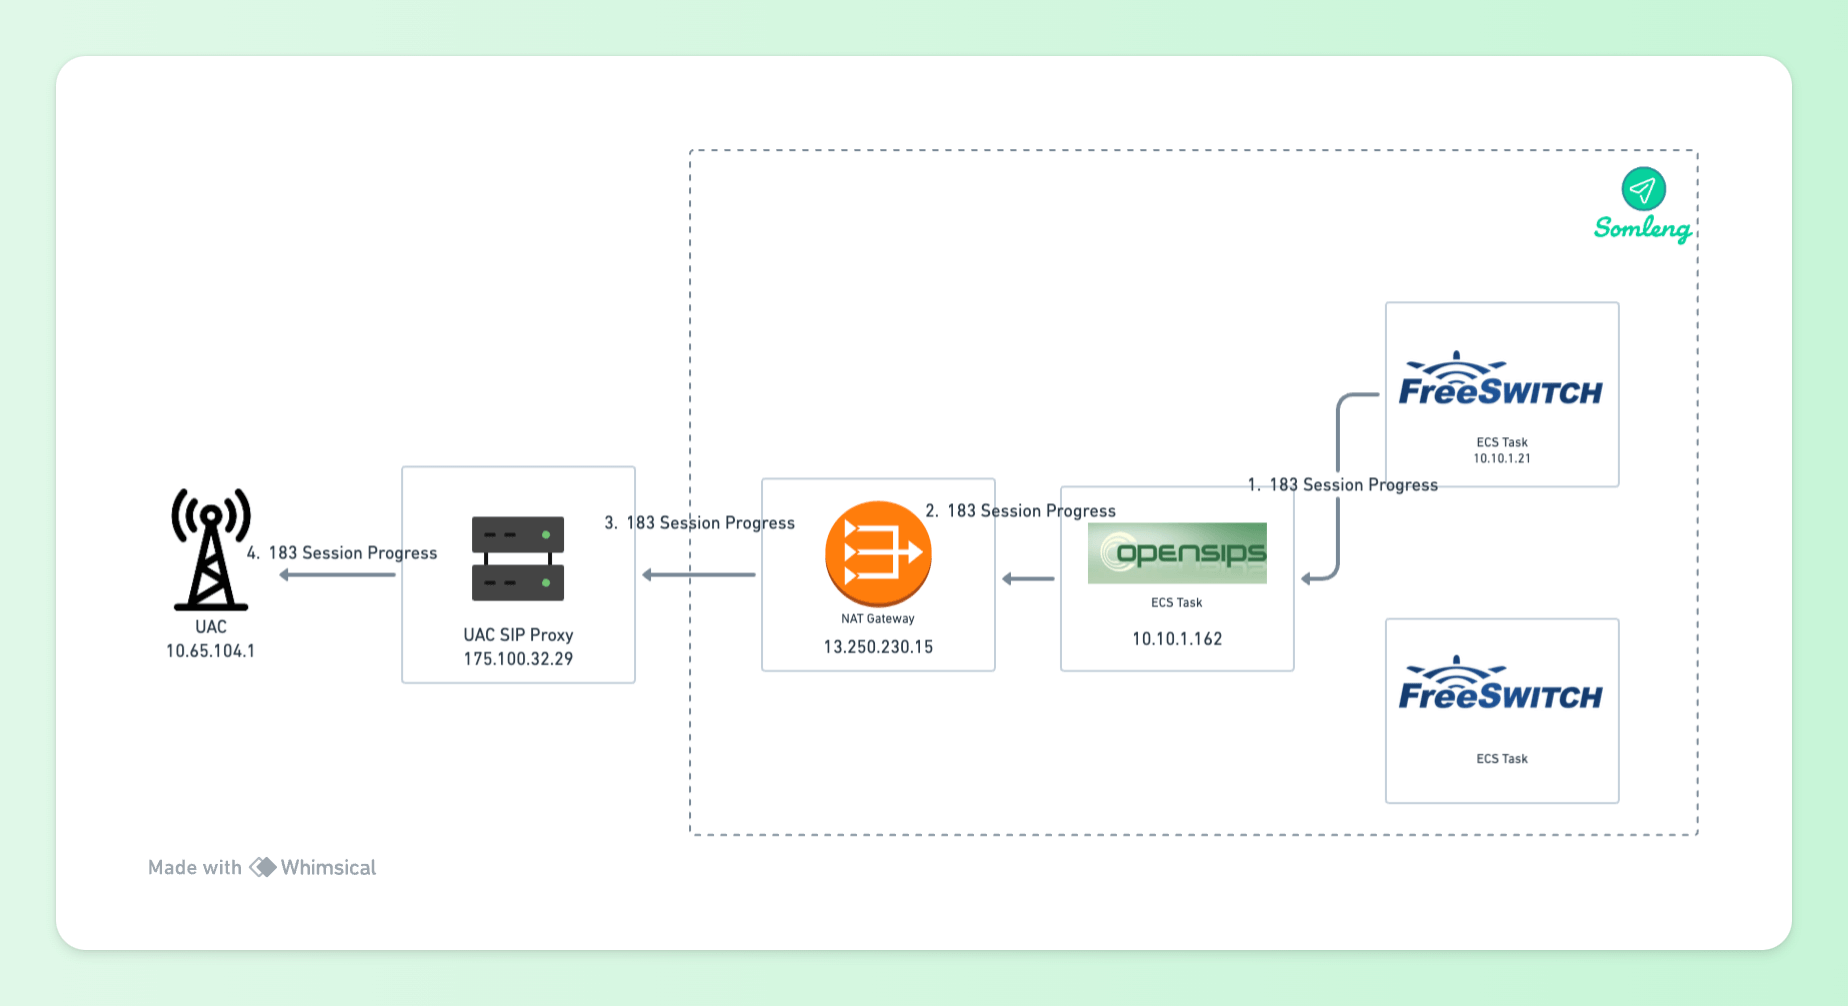
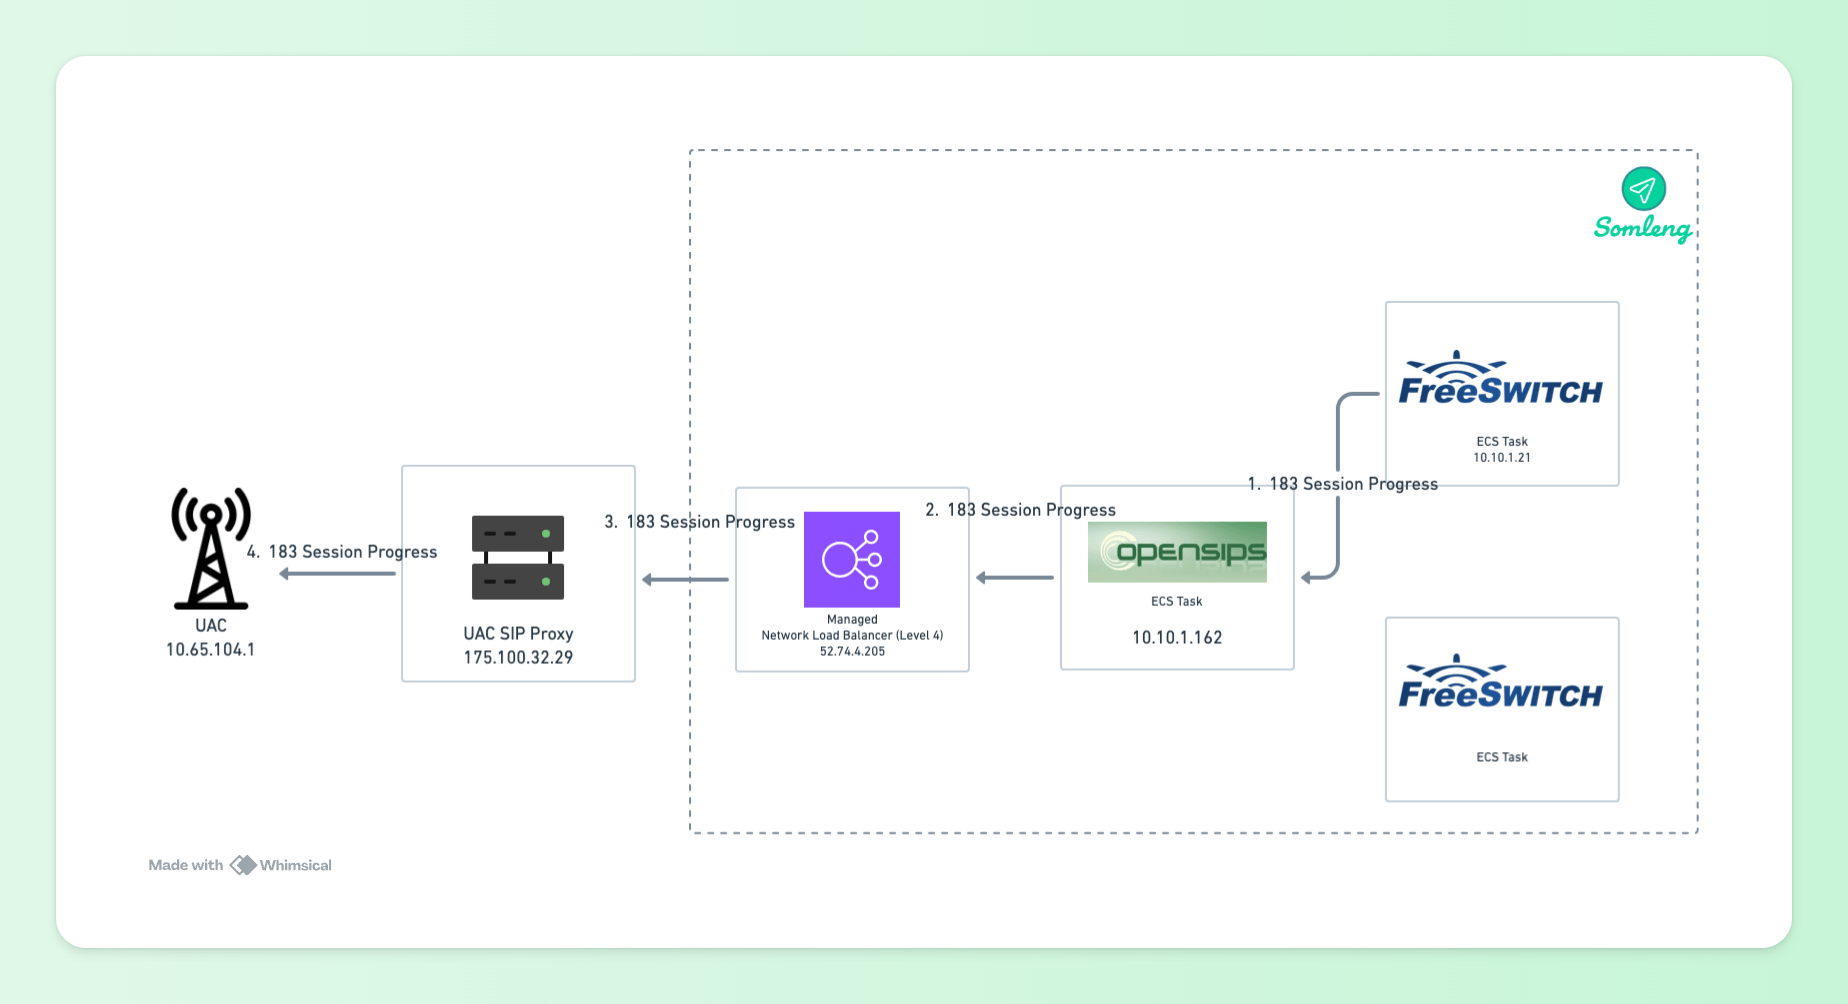
Make corrections to infrastructure blog post

diff --git a/public/website/blog.html b/public/website/blog.html
@@ -8,6 +8,11 @@
   <link rel='stylesheet' href='css/style.min.css' />
   <link rel='stylesheet' href='css/custom.css' />
   <link rel="stylesheet" href="https://cdnjs.cloudflare.com/ajax/libs/font-awesome/6.1.1/css/all.min.css">
+  <link rel="stylesheet" href="https://cdnjs.cloudflare.com/ajax/libs/prism/1.29.0/themes/prism-dark.min.css">
+  <link rel="stylesheet"
+    href="https://cdnjs.cloudflare.com/ajax/libs/prism/1.29.0/plugins/line-numbers/prism-line-numbers.min.css" />
+  <link rel="stylesheet"
+    href="https://cdnjs.cloudflare.com/ajax/libs/prism/1.29.0/plugins/toolbar/prism-toolbar.min.css" />
 
   <!-- favicon -->
   <link rel="apple-touch-icon" sizes="180x180" href="apple-touch-icon.png">
@@ -217,7 +222,7 @@
               </p>
 
               <p>
-                <code>Via: SIP/2.0/UDP 10.10.1.21;branch=z9hG4bKv5jFZ8am7aZQc</code>
+              <pre><code class="language-plain">Via: SIP/2.0/UDP 10.10.1.21;branch=z9hG4bKv5jFZ8am7aZQc</code></pre>
               </p>
 
               <p>
@@ -267,7 +272,7 @@
               </p>
 
               <p>
-                <code>Via: SIP/2.0/UDP 10.10.1.21;received=13.250.230.15;branch=z9hG4bKv5jFZ8am7aZQc</code>
+              <pre><code class="language-plain">Via: SIP/2.0/UDP 10.10.1.21;received=13.250.230.15;branch=z9hG4bKv5jFZ8am7aZQc</code></pre>
               </p>
 
               <p>
@@ -303,7 +308,7 @@
               </p>
 
               <p>
-                <code>Via: SIP/2.0/UDP 10.10.1.21;rport;branch=z9hG4bKv5jFZ8am7aZQc</code>
+              <pre><code class="language-plain">Via: SIP/2.0/UDP 10.10.1.21;rport;branch=z9hG4bKv5jFZ8am7aZQc</code></pre>
               </p>
 
               <p>
@@ -311,7 +316,7 @@
               </p>
 
               <p>
-                <code>Via: SIP/2.0/UDP 10.10.1.21;received=13.250.230.15;rport=37058;branch=z9hG4bKv5jFZ8am7aZQc</code>
+              <pre><code class="language-plain">Via: SIP/2.0/UDP 10.10.1.21;received=13.250.230.15;rport=37058;branch=z9hG4bKv5jFZ8am7aZQc</code></pre>
               </p>
 
               <p>
@@ -335,20 +340,17 @@
                 which describes multimedia communication information. Here's an truncated example from Somleng:
               </p>
 
-              <pre>
-                <code>
-                  Session Description Protocol Version (v): 0
-                  Connection Information (c): IN IP4 13.250.230.15
-                  Media Description, name and address (m): audio 25984 RTP/AVP 0 8 101 13
-                </code>
-              </pre>
+              <pre><code class="language-plain line-numbers">Session Description Protocol Version (v): 0
+Connection Information (c): IN IP4 13.250.230.15
+Media Description, name and address (m): audio 25984 RTP/AVP 0 8 101 13
+</code></pre>
 
               <p>
                 The following line shows the media connection information:
               </p>
 
               <p>
-                <code>Connection Information (c): IN IP4 13.250.230.15</code>
+              <pre><code class="language-plain">Connection Information (c): IN IP4 13.250.230.15</code></pre>
               </p>
 
               <p>
@@ -364,9 +366,8 @@
               </p>
 
               <p>
-                <code>
-                  Media Description, name and address (m): audio 25984 RTP/AVP 0 8 101 13
-                </code>
+              <pre
+                class="language-plain"><code>Media Description, name and address (m): audio 25984 RTP/AVP 0 8 101 13</code></pre>
               </p>
 
               <p>
@@ -508,17 +509,12 @@
                 proxied to the UAS (FreeSWITCH ECS Task):
               </p>
 
-              <pre>
-                <code>
-                  Request-Line: INVITE sip:1294@52.74.4.205:5060;user=phone SIP/2.0
-
-                  Message Header:
-                  Record-Route: &lt;sip:10.10.1.162:5060;lr;did=05d.f7db99b7;r2=on&gt;
-                  Record-Route: &lt;sip:52.74.4.205:5060;lr;did=05d.f7db99b7;r2=on&gt;
-                  Record-Route: &lt;sip:175.100.32.29:5060;lr;transport=udp&gt;
-                  Contact: &lt;sip:0715100860@10.65.104.1:5060;user=phone&gt;
-                </code>
-              </pre>
+              <pre><code class="language-plain line-numbers">Request-Line: INVITE sip:1294@52.74.4.205:5060;user=phone SIP/2.0
+Message Header:
+Record-Route: &lt;sip:10.10.1.162:5060;lr;did=05d.f7db99b7;r2=on&gt;
+Record-Route: &lt;sip:52.74.4.205:5060;lr;did=05d.f7db99b7;r2=on&gt;
+Record-Route: &lt;sip:175.100.32.29:5060;lr;transport=udp&gt;
+Contact: &lt;sip:0715100860@10.65.104.1:5060;user=phone&gt;</code></pre>
 
               <p>
                 Note the following:
@@ -566,14 +562,15 @@
               <ol>
                 <li>
                   The UAS FreeSWITCH ECS Task (<code>10.10.1.21</code>) sends the response to the OpenSIPS proxy's
-                  internal IP address (<code>10.10.1.162</code>) obtained from the Via Header.
+                  internal IP address (<code>10.10.1.162</code>) obtained from the received parameter in the Via Header.
                 </li>
                 <li>
-                  The OpenSIPS proxy ECS task forwards the response to the UAC's proxy via the NAT Gateway.
+                  The OpenSIPS proxy ECS task forwards the response to the UAC's proxy via the Network Load Balancer.
+                  Note: Subsequent requests (e.g. upstream BYEs) are also forwarded via the Network Load Balancer.
                 </li>
                 <li>
-                  The NAT Gateway forwards the response to the UAC's SIP Proxy (<code>175.100.32.29</code>) obtained
-                  from the Via Header.
+                  The Network Load Balancer forwards the response to the UAC's SIP Proxy (<code>175.100.32.29</code>)
+                  obtained from the Via Header.
                 </li>
                 <li>
                   The UAC's SIP proxy forwards the response to the UAC (<code>10.65.104.1</code>) obtained from the Via
@@ -585,20 +582,15 @@
                 Here's the SIP response from the UAS:
               </p>
 
-              <pre>
-                <code>
-                  Status-Line: SIP/2.0 183 Session Progress
-
-                  Message Header:
-                  Via: SIP/2.0/UDP 52.74.4.205:5060;branch=z9hG4bK918f.3a1eef55.0;received=10.10.1.162
-                  Via: SIP/2.0/UDP 175.100.32.29:5060;branch=z9hG4bK08B4d2dd80314813a74
-                  Via: SIP/2.0/UDP 10.65.104.1:5065;branch=z9hG4bKqgyjqqdfz0g5zqhhysze7m0de;X-DptMsg=139
-                  Record-Route: &lt;sip:10.10.1.162:5060;lr;did=05d.f7db99b7;r2=on&gt;
-                  Record-Route: &lt;sip:52.74.4.205:5060;lr;did=05d.f7db99b7;r2=on&gt;
-                  Record-Route: &lt;sip:175.100.32.29:5060;lr;transport=udp&gt;
-                  Contact: &lt;sip:1294@10.10.1.21:5060;transport=udp&gt;
-                </code>
-              </pre>
+              <pre><code class="language-plain line-numbers">Status-Line: SIP/2.0 183 Session Progress
+Message Header:
+Via: SIP/2.0/UDP 52.74.4.205:5060;branch=z9hG4bK918f.3a1eef55.0;received=10.10.1.162
+Via: SIP/2.0/UDP 175.100.32.29:5060;branch=z9hG4bK08B4d2dd80314813a74
+Via: SIP/2.0/UDP 10.65.104.1:5065;branch=z9hG4bKqgyjqqdfz0g5zqhhysze7m0de;X-DptMsg=139
+Record-Route: &lt;sip:10.10.1.162:5060;lr;did=05d.f7db99b7;r2=on&gt;
+Record-Route: &lt;sip:52.74.4.205:5060;lr;did=05d.f7db99b7;r2=on&gt;
+Record-Route: &lt;sip:175.100.32.29:5060;lr;transport=udp&gt;
+Contact: &lt;sip:1294@10.10.1.21:5060;transport=udp&gt;</code></pre>
 
               <p>
                 Note the following:
@@ -667,16 +659,11 @@
                 Here's the downstream BYE request from the UAC.
               </p>
 
-              <pre>
-                <code>
-                  Request-Line: BYE sip:1294@10.10.1.21:5060;transport=udp SIP/2.0
-
-                  Message Header:
-                  Route: &lt;sip:175.100.32.29:5060;lr;did=7c1.f350d215;&gt;
-                  Route: &lt;sip:52.74.4.205:5060;lr;did=7c1.f350d215;r2=on&gt;
-                  Route: &lt;sip:10.10.1.162:5060;lr;did=7c1.f350d215;r2=on&gt;
-                </code>
-              </pre>
+              <pre><code class="language-plain line-numbers">Request-Line: BYE sip:1294@10.10.1.21:5060;transport=udp SIP/2.0
+Message Header:
+Route: &lt;sip:175.100.32.29:5060;lr;did=7c1.f350d215;&gt;
+Route: &lt;sip:52.74.4.205:5060;lr;did=7c1.f350d215;r2=on&gt;
+Route: &lt;sip:10.10.1.162:5060;lr;did=7c1.f350d215;r2=on&gt;</code></pre>
 
               <p>
                 Note the following:
@@ -1961,6 +1948,18 @@
         </div>
       </div>
     </div>
+
+    <script src="https://cdnjs.cloudflare.com/ajax/libs/prism/1.29.0/components/prism-core.min.js">
+    </script>
+    <script
+      src="https://cdnjs.cloudflare.com/ajax/libs/prism/1.29.0/plugins/autoloader/prism-autoloader.min.js"></script>
+    </script>
+
+    <script src="https://cdnjs.cloudflare.com/ajax/libs/prism/1.29.0/plugins/toolbar/prism-toolbar.min.js"></script>
+    <script
+      src="https://cdnjs.cloudflare.com/ajax/libs/prism/1.29.0/plugins/copy-to-clipboard/prism-copy-to-clipboard.min.js"></script>
+    <script
+      src="https://cdnjs.cloudflare.com/ajax/libs/prism/1.29.0/plugins/line-numbers/prism-line-numbers.min.js"></script>
 </body>
 
 </html>
